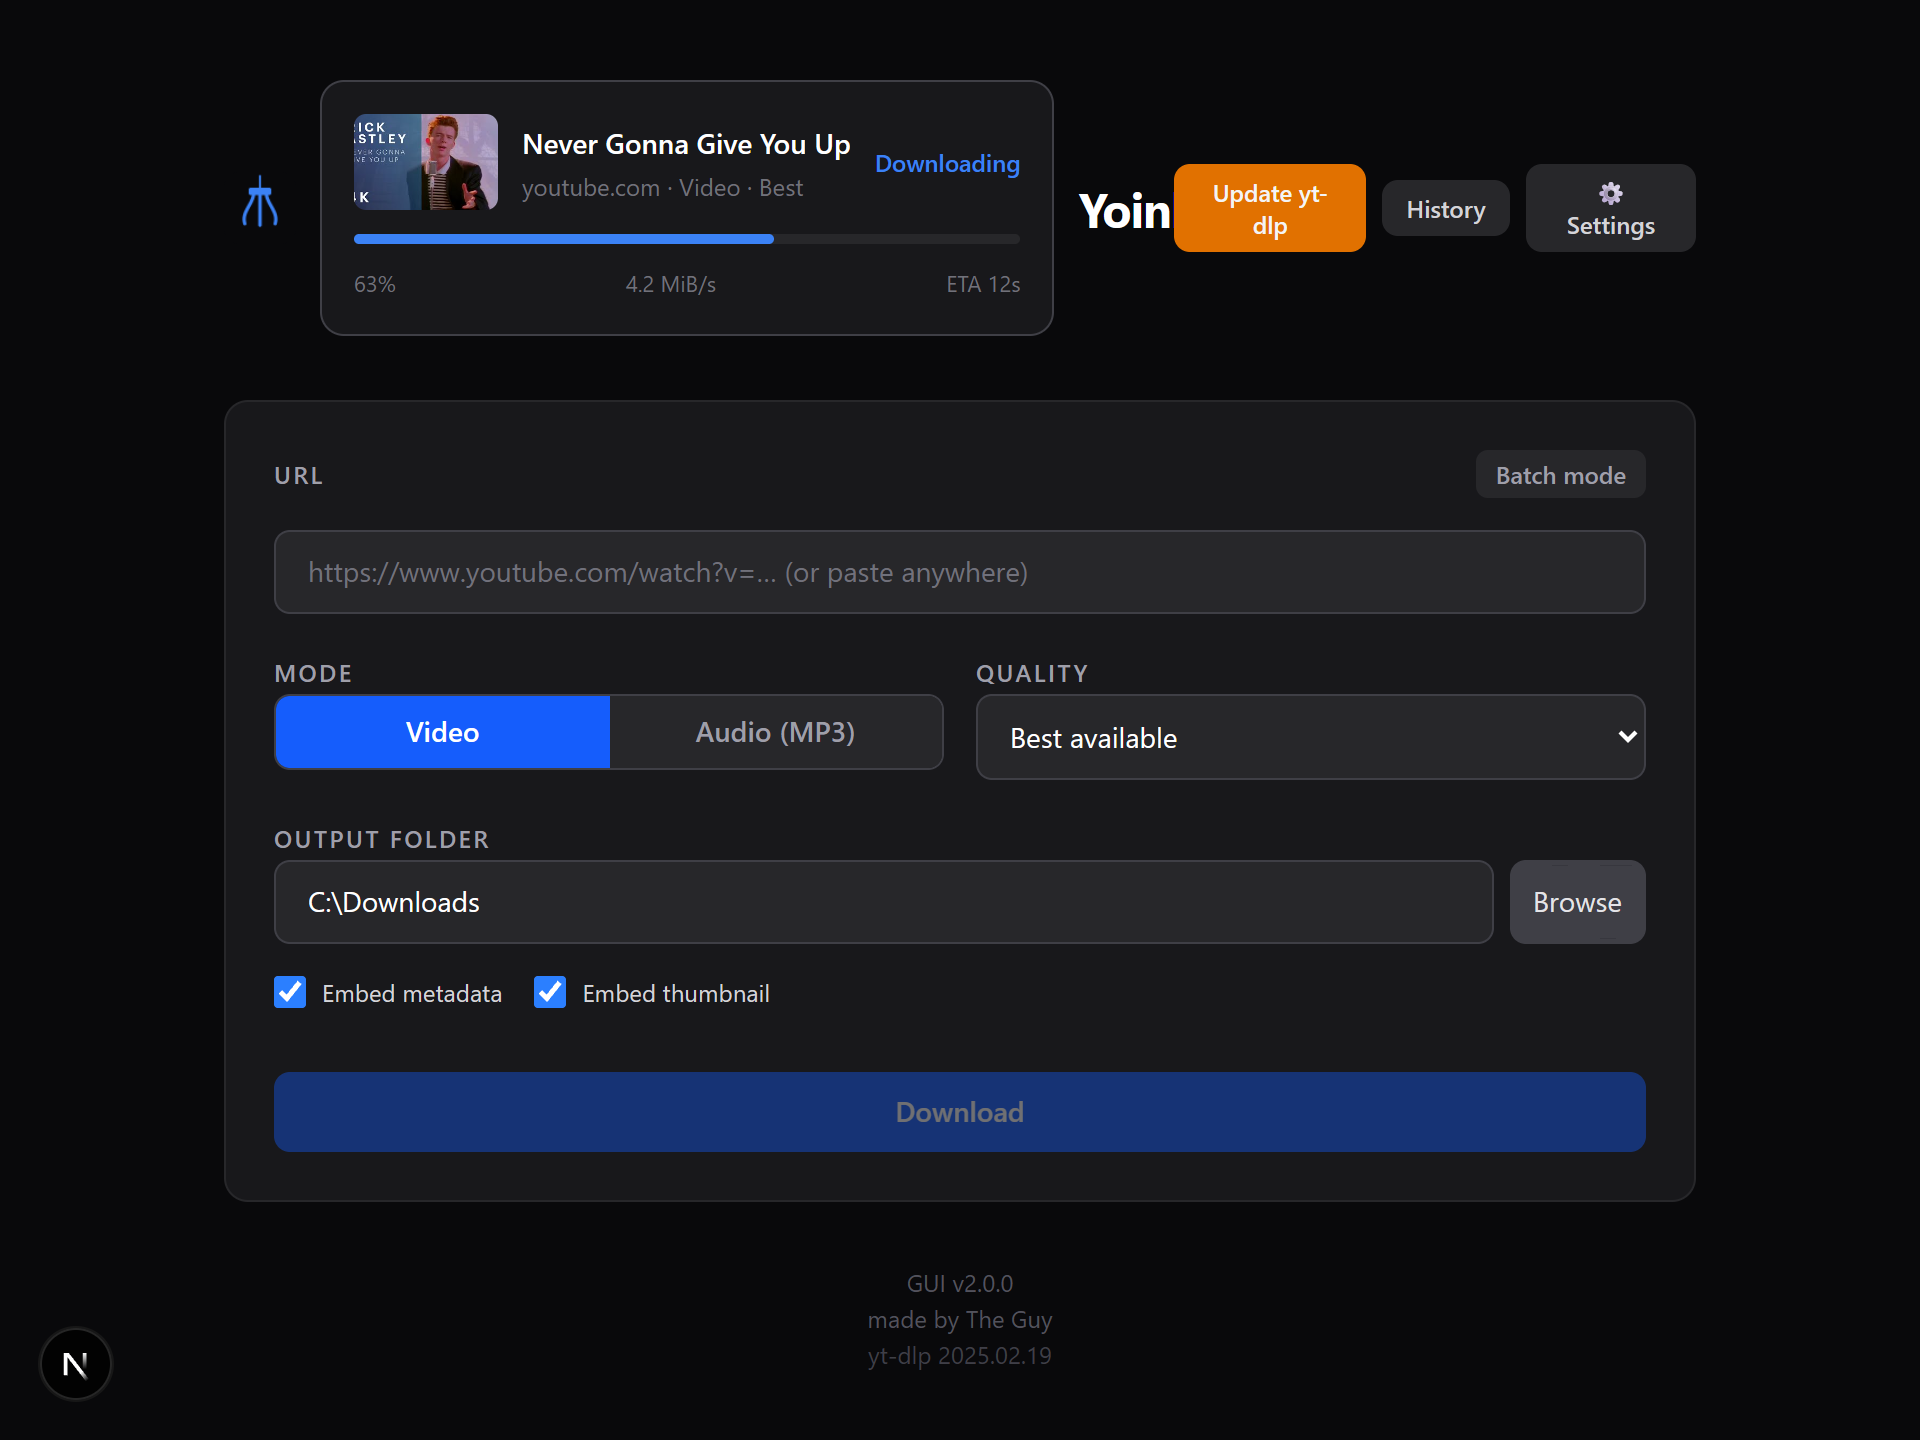
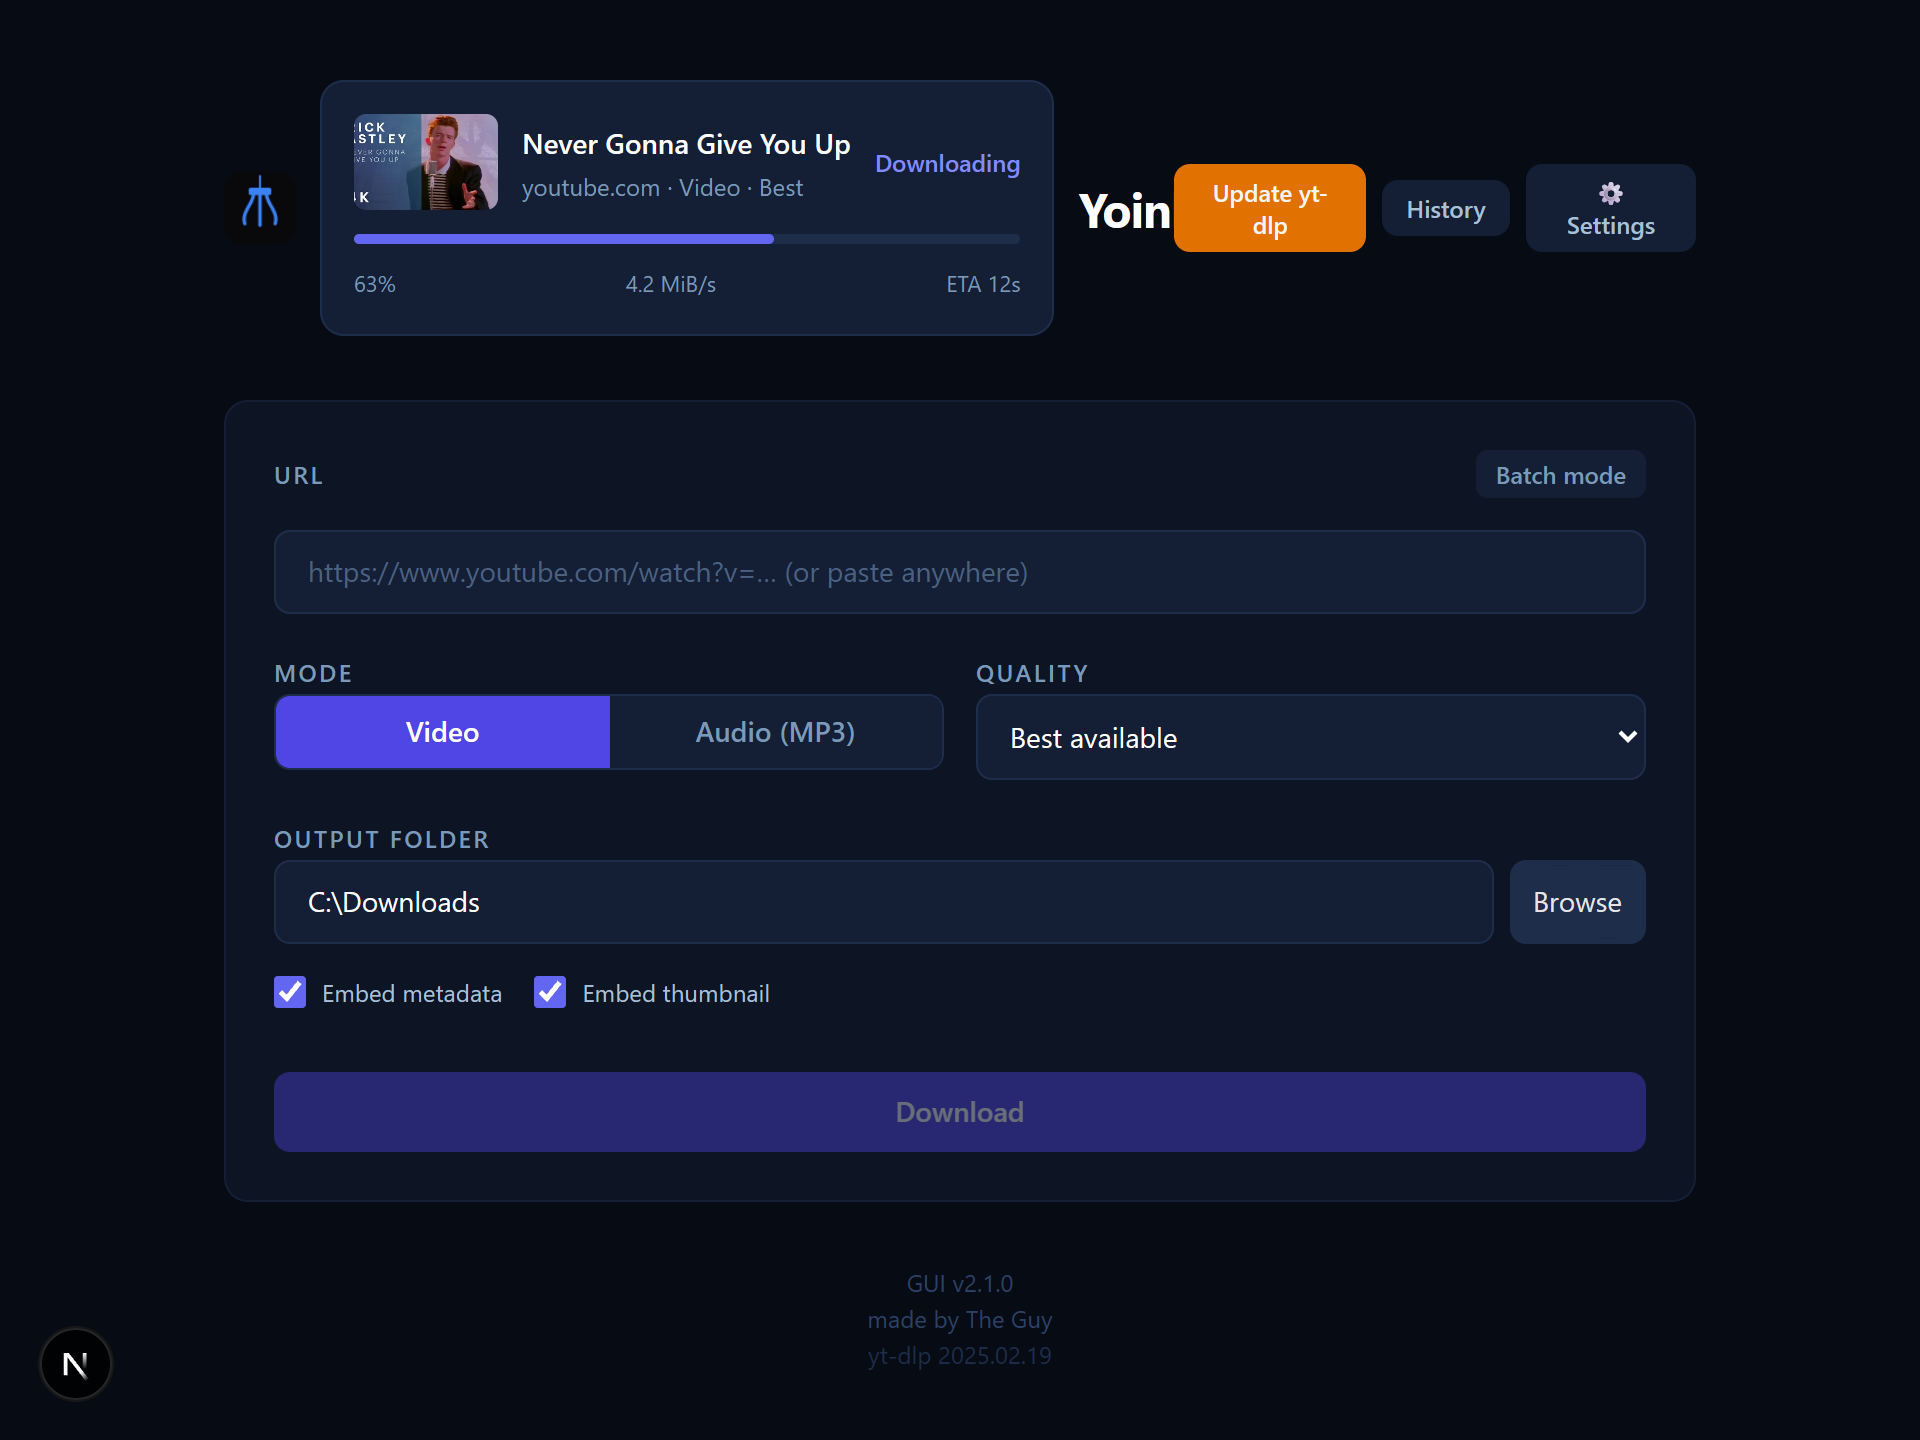
Update feature screenshots for v2.1.0 (Slate theme, new theme shots)
Replaces stale Cyberpunk/Earthy shots with Terminal, Glass, Neon Noir.
Fake download card updated to slate palette. README inline preview row added.

diff --git a/README.md b/README.md
@@ -24,6 +24,10 @@ A clean, local GUI for [yt-dlp](https://github.com/yt-dlp/yt-dlp). Runs as a loc
 |---|---|---|
 | ![Downloading](docs/screenshots/02-downloading.png) | ![History](docs/screenshots/03-history.png) | ![Settings](docs/screenshots/04-settings.png) |
 
+| Terminal | Glass | Neon Noir |
+|---|---|---|
+| ![Terminal](docs/screenshots/05-terminal-theme.png) | ![Glass](docs/screenshots/06-glass-theme.png) | ![Neon Noir](docs/screenshots/07-neon-theme.png) |
+
 ### Themes
 
 | Slate | Terminal | Glass |
